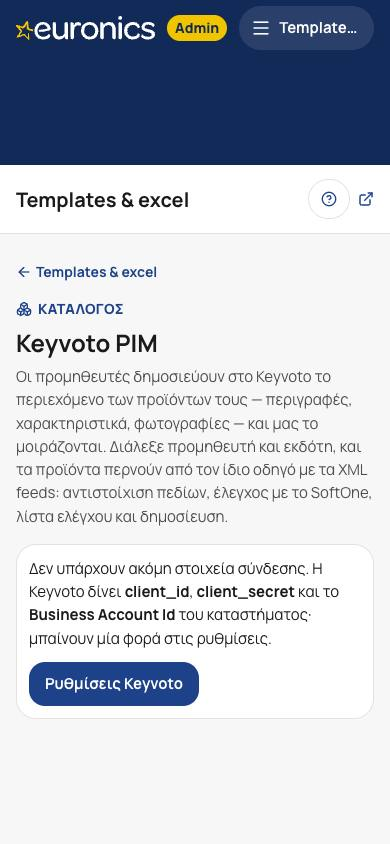
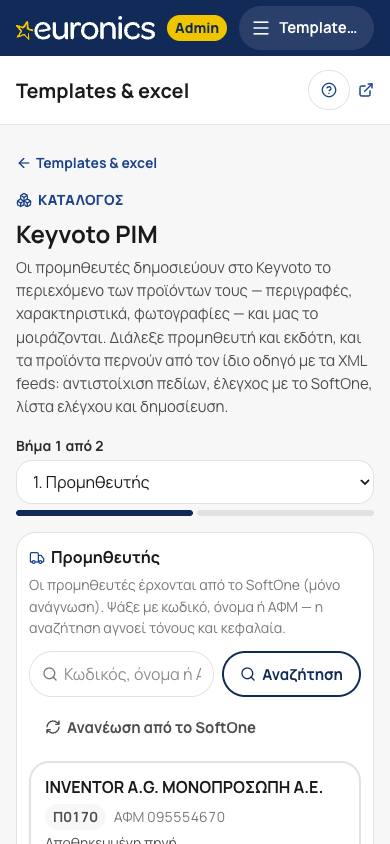
Keyvoto PIM: διαλέγονται εκδότης και κατάλογος, και η πηγή σώζεται
Με πραγματικά κλειδιά τα μενού γέμιζαν αλλά δεν διαλεγόταν τίποτα: ο κωδικός
του εκδότη ήταν πάντα κενός. Το Keyvoto στέλνει `id` (BusinessAccount-…,
CatalogueV2-…), όχι `businessAccountId`/`catalogueId` όπως είχαμε υποθέσει από
το swagger. Επαληθεύτηκε ζωντανά.

- publisherOptions/catalogueOptions στο core, με tests: κλειδί το `id`, ό,τι
  δεν έχει id ή είναι διαγραμμένο δεν γίνεται επιλογή που δεν σώζεται.
- Ο οδηγός ζητούσε τους προμηθευτές χωρίς τη μορφή της πηγής, οπότε μετά την
  αποθήκευση η κάρτα ξαναδιάβαζε τα XML feeds και έδειχνε «χωρίς πηγή».
- Ο κατάλογος δείχνει πόσα προϊόντα έχει· το μήνυμα αποθήκευσης λέει «πηγή».

Δοκιμασμένο άκρη σε άκρη στον INVENTOR: 124 προϊόντα, 273 στήλες, 1 μάρκα,
13 κατηγορίες. 905/905 tests.

Changed region(s): [[0.0, 0.0616, 1.0, 0.8934], [0.1231, 0.9242, 0.8308, 1.0]]

diff --git a/components/admin/catalog/xml/XmlImportWizard.tsx b/components/admin/catalog/xml/XmlImportWizard.tsx
@@ -93,13 +93,13 @@ export function XmlImportWizard({ suppliers, brands, categories, units, marks, w
 
   const search = async (e: React.FormEvent) => {
     e.preventDefault();
-    const r = await run("search", () => findSuppliers(q.trim()).then((x) => x));
+    const r = await run("search", () => findSuppliers(q.trim(), source).then((x) => x));
     if (r) setList(r);
   };
 
   /** Ξαναδιαβάζει τη λίστα και κρατά επιλεγμένο τον ίδιο προμηθευτή — αλλιώς η κάρτα θα έδειχνε παλιά κατάσταση. */
   const refresh = async (supplierId: string) => {
-    const fresh = await findSuppliers(q.trim());
+    const fresh = await findSuppliers(q.trim(), source);
     setList(fresh);
     const same = fresh.find((x) => x.id === supplierId);
     if (same) setPicked(same);
@@ -111,9 +111,10 @@ export function XmlImportWizard({ suppliers, brands, categories, units, marks, w
     const r = await run("url", () => saveUrl(s.id, url.trim()));
     if (!r) return;
     await refresh(s.id);
+    const what = kv ? "Η πηγή" : "Η διεύθυνση";
     setNote(r.cleared
-      ? `Η διεύθυνση αποθηκεύτηκε. Επειδή άλλαξε, τα ${r.cleared.toLocaleString("el-GR")} φορτωμένα προϊόντα της παλιάς διεύθυνσης καθαρίστηκαν.`
-      : "Η διεύθυνση αποθηκεύτηκε στον προμηθευτή. Μπορείς να ρυθμίσεις την αντιστοίχιση όποτε θέλεις.");
+      ? `${what} αποθηκεύτηκε. Επειδή άλλαξε, τα ${r.cleared.toLocaleString("el-GR")} φορτωμένα προϊόντα της προηγούμενης καθαρίστηκαν.`
+      : `${what} αποθηκεύτηκε στον προμηθευτή. Μπορείς να ρυθμίσεις την αντιστοίχιση όποτε θέλεις.`);
   };
 
   /**
@@ -315,7 +316,7 @@ export function XmlImportWizard({ suppliers, brands, categories, units, marks, w
             </label>
             <button type="submit" className={secondary} disabled={working}>{busy === "search" ? <Loader2 className="size-4 animate-spin" aria-hidden /> : <Search className="size-4" aria-hidden />} Αναζήτηση</button>
             <button type="button" className={quiet} disabled={working}
-              onClick={() => run("sync", () => refreshSuppliers()).then((r) => { if (r) { setNote(`Από το SoftOne: ${r.added} νέοι, ${r.updated} ενημερώθηκαν.`); void findSuppliers(q.trim()).then(setList); } })}>
+              onClick={() => run("sync", () => refreshSuppliers()).then((r) => { if (r) { setNote(`Από το SoftOne: ${r.added} νέοι, ${r.updated} ενημερώθηκαν.`); void findSuppliers(q.trim(), source).then(setList); } })}>
               {busy === "sync" ? <Loader2 className="size-4 animate-spin" aria-hidden /> : <RefreshCw className="size-4" aria-hidden />} Ανανέωση από το SoftOne
             </button>
           </form>

diff --git a/lib/keyvoto/core.test.ts b/lib/keyvoto/core.test.ts
@@ -1,6 +1,6 @@
 import { test } from "node:test";
 import assert from "node:assert/strict";
-import { apiUrl, documentFields, flattenDocument, sharedContentQuery, tokenExpiry, tokenForm } from "./core";
+import { apiUrl, catalogueOptions, documentFields, publisherOptions, flattenDocument, sharedContentQuery, tokenExpiry, tokenForm } from "./core";
 
 test("tokenForm: το σώμα του OAuth client credentials", () => {
   const body = tokenForm({ grantType: "client_credentials", clientId: "company-1", clientSecret: "s3cr3t", scope: "keyvoto-core-services" });
@@ -59,4 +59,28 @@ test("documentFields: οι δείκτες των πινάκων ενώνοντα
 test("apiUrl: ενώνει χωρίς διπλές καθέτους", () => {
   assert.equal(apiUrl("https://core-api.keyvoto.com/", "/v1.1-alpha/x/sharedContent"), "https://core-api.keyvoto.com/v1.1-alpha/x/sharedContent");
   assert.equal(apiUrl("https://core-api.keyvoto.com", "v1.1-alpha/x"), "https://core-api.keyvoto.com/v1.1-alpha/x");
+});
+
+test("publisherOptions: ο κωδικός του εκδότη είναι το «id» — όχι κενός", () => {
+  // Πραγματική απάντηση του Keyvoto (/sharedContent/publishers)
+  const out = publisherOptions([{ id: "BusinessAccount-4b69f48f", title: "Inventor", image: "x.webp", email: "a@b.gr" }]);
+  assert.deepEqual(out, [{ id: "BusinessAccount-4b69f48f", title: "Inventor" }]);
+});
+
+test("publisherOptions: εκδότης χωρίς id παραλείπεται — δεν γίνεται επιλογή που δεν σώζεται", () => {
+  assert.deepEqual(publisherOptions([{ title: "Χωρίς κωδικό" }, { id: "  ", title: "Κενό" }]), []);
+});
+
+test("publisherOptions: χωρίς τίτλο δείχνει τον κωδικό", () => {
+  assert.deepEqual(publisherOptions([{ id: "BA-1" }]), [{ id: "BA-1", title: "BA-1" }]);
+});
+
+test("catalogueOptions: κωδικός, όνομα και ο εκδότης του", () => {
+  const out = catalogueOptions([{ id: "CatalogueV2-9bc8", name: "Catalogue Inventor x Euronics", publisher: "BusinessAccount-4b69f48f", products: 124 }]);
+  assert.deepEqual(out, [{ id: "CatalogueV2-9bc8", name: "Catalogue Inventor x Euronics", publisher: "BusinessAccount-4b69f48f", products: 124 }]);
+});
+
+test("catalogueOptions: διαγραμμένος κατάλογος ή χωρίς id δεν εμφανίζεται", () => {
+  const out = catalogueOptions([{ id: "C-1", name: "Παλιός", publisher: "BA-1", isDeleted: true }, { name: "Χωρίς κωδικό", publisher: "BA-1" }]);
+  assert.deepEqual(out, []);
 });

diff --git a/lib/keyvoto/client.ts b/lib/keyvoto/client.ts
@@ -1,6 +1,6 @@
 import "server-only";
 import { getSetting } from "@/lib/settings/store";
-import { apiUrl, sharedContentQuery, tokenExpiry, tokenForm, type SharedContentQuery } from "@/lib/keyvoto/core";
+import { apiUrl, publisherOptions, sharedContentQuery, tokenExpiry, tokenForm, type KeyvotoCatalogue, type KeyvotoPublisher, type SharedContentQuery } from "@/lib/keyvoto/core";
 
 /**
  * **Keyvoto PIM — η σύνδεση.** Μόνο αναγνώσεις: ζητάμε token (OAuth 2.0 client credentials) και διαβάζουμε το
@@ -140,10 +140,10 @@ export interface Publication {
 const account = (c: KeyvotoConfig) => encodeURIComponent(c.businessAccountId);
 
 export const publishers = (c: KeyvotoConfig, pageSize = 50) =>
-  kvFetch<Paged<{ businessAccountId?: string; title?: string }>>(c, c.apiBase, `/v1.1-alpha/${account(c)}/sharedContent/publishers`, `page=1&pageSize=${pageSize}`);
+  kvFetch<Paged<KeyvotoPublisher>>(c, c.apiBase, `/v1.1-alpha/${account(c)}/sharedContent/publishers`, `page=1&pageSize=${pageSize}`);
 
 export const catalogues = (c: KeyvotoConfig, pageSize = 50) =>
-  kvFetch<Paged<{ catalogueId?: string; name?: string; publisher?: string; version?: number }>>(c, c.apiBase, `/v1.1-alpha/${account(c)}/sharedContent/catalogues`, `page=1&pageSize=${pageSize}`);
+  kvFetch<Paged<KeyvotoCatalogue>>(c, c.apiBase, `/v1.1-alpha/${account(c)}/sharedContent/catalogues`, `page=1&pageSize=${pageSize}`);
 
 export const sharedContent = (c: KeyvotoConfig, q: SharedContentQuery = {}) =>
   kvFetch<Paged<Publication>>(c, c.apiBase, `/v1.1-alpha/${account(c)}/sharedContent`, sharedContentQuery({ pageSize: c.pageSize, languages: c.languages ? c.languages.split(",") : undefined, ...q }));
@@ -165,7 +165,7 @@ export async function testKeyvoto(input: Partial<KeyvotoConfig>): Promise<Keyvot
   try {
     await getToken(c, true);
     const p = await publishers(c, 20);
-    const names = (p.results ?? []).map((x) => x.title || x.businessAccountId || "—");
+    const names = publisherOptions(p.results).map((x) => x.title);
     return {
       ok: true, ms: Date.now() - t0, publishers: names, expiresAt: tokenHeldUntil(c)?.toISOString(),
       message: names.length ? `Σύνδεση OK — ${p.totalResults ?? names.length} εκδότες μοιράζονται περιεχόμενο μαζί μας.` : "Σύνδεση OK — ο λογαριασμός δεν έχει ακόμη εκδότες με κοινό περιεχόμενο.",

diff --git a/lib/keyvoto/core.ts b/lib/keyvoto/core.ts
@@ -119,3 +119,27 @@ export function documentFields(docs: Json[]): DocField[] {
 
 /** Ένωση βάσης και διαδρομής χωρίς διπλές καθέτους. */
 export const apiUrl = (base: string, path: string) => `${base.replace(/\/+$/, "")}/${path.replace(/^\/+/, "")}`;
+
+/**
+ * Οι εκδότες και οι κατάλογοί τους, όπως τους γυρίζει το Keyvoto, σε επιλογές για τα μενού του οδηγού.
+ *
+ * Το κλειδί και στα δύο είναι το **`id`** (π.χ. `BusinessAccount-4b69…`, `CatalogueV2-9bc8…`) — επαληθευμένο με
+ * πραγματική απάντηση. Ό,τι δεν έχει `id` το πετάμε: μια επιλογή με κενή τιμή δείχνει να «μη διαλέγεται» και η πηγή
+ * δεν σώζεται ποτέ.
+ */
+/** Το Keyvoto στέλνει και άλλα πεδία (image, email, version, publishedAt…) — κρατάμε μόνο όσα χρησιμοποιούμε. */
+export interface KeyvotoPublisher { id?: string; title?: string; [k: string]: unknown }
+export interface KeyvotoCatalogue { id?: string; name?: string; publisher?: string; products?: number; isDeleted?: boolean; [k: string]: unknown }
+
+export const publisherOptions = (rows: KeyvotoPublisher[] | null | undefined): { id: string; title: string }[] =>
+  (rows ?? [])
+    .map((x) => ({ id: String(x.id ?? "").trim(), title: String(x.title ?? "").trim() }))
+    .filter((x) => x.id)
+    .map((x) => ({ id: x.id, title: x.title || x.id }));
+
+export const catalogueOptions = (rows: KeyvotoCatalogue[] | null | undefined): { id: string; name: string; publisher: string; products: number }[] =>
+  (rows ?? [])
+    .filter((x) => !x.isDeleted)
+    .map((x) => ({ id: String(x.id ?? "").trim(), name: String(x.name ?? "").trim(), publisher: String(x.publisher ?? "").trim(), products: Number(x.products ?? 0) || 0 }))
+    .filter((x) => x.id)
+    .map((x) => ({ ...x, name: x.name || x.id }));

diff --git a/components/admin/catalog/keyvoto/KeyvotoSource.tsx b/components/admin/catalog/keyvoto/KeyvotoSource.tsx
@@ -15,7 +15,7 @@ export function KeyvotoSource({ value, onChange, disabled, label = "Πηγή Key
   disabled?: boolean;
   label?: string;
 }) {
-  const [lists, setLists] = useState<{ publishers: { id: string; title: string }[]; catalogues: { id: string; name: string; publisher: string }[] } | null>(null);
+  const [lists, setLists] = useState<{ publishers: { id: string; title: string }[]; catalogues: { id: string; name: string; publisher: string; products: number }[] } | null>(null);
   const [err, setErr] = useState<string | null>(null);
   /** ξεκινά φορτώνοντας: οι εκδότες έρχονται με την πρώτη απόδοση */
   const [loading, setLoading] = useState(true);
@@ -52,7 +52,7 @@ export function KeyvotoSource({ value, onChange, disabled, label = "Πηγή Key
           <span className="font-bold text-eu-ink-2 text-[length:var(--fs-13)]">Κατάλογος <span className="font-normal text-eu-muted">· προαιρετικά</span></span>
           <select value={cur.catalogue} disabled={disabled || !cur.publisher || !cats.length} onChange={(e) => onChange(keyvotoUrl(cur.publisher, e.target.value))} className={sel}>
             <option value="">Όλοι οι κατάλογοί του</option>
-            {cats.map((c) => <option key={c.id} value={c.id}>{c.name}</option>)}
+            {cats.map((c) => <option key={c.id} value={c.id}>{c.products ? `${c.name} · ${c.products.toLocaleString("el-GR")} προϊόντα` : c.name}</option>)}
           </select>
         </label>
       </div>

diff --git a/app/admin/(shell)/catalog/templates/keyvoto/actions.ts b/app/admin/(shell)/catalog/templates/keyvoto/actions.ts
@@ -1,7 +1,7 @@
 "use server";
 import { requirePermission } from "@/lib/rbac/guard";
 import { audit } from "@/lib/rbac/audit";
-import { documentFields, type DocField } from "@/lib/keyvoto/core";
+import { catalogueOptions, documentFields, publisherOptions, type DocField } from "@/lib/keyvoto/core";
 import { catalogues, getKeyvotoConfig, publishers, sharedContent, testKeyvoto, tokenHeldUntil, type Publication } from "@/lib/keyvoto/client";
 
 /**
@@ -14,7 +14,7 @@ export interface KvConnection {
   message: string;
   ms: number;
   publishers: { id: string; title: string }[];
-  catalogues: { id: string; name: string; publisher: string }[];
+  catalogues: { id: string; name: string; publisher: string; products: number }[];
   expiresAt: string | null;
 }
 
@@ -66,8 +66,8 @@ export async function connect(): Promise<KvConnection> {
       ok: true,
       message: `Σύνδεση OK — ${p.totalResults ?? (p.results ?? []).length} εκδότες, ${cat.totalResults ?? (cat.results ?? []).length} κατάλογοι.`,
       ms: Date.now() - t0,
-      publishers: (p.results ?? []).map((x) => ({ id: String(x.businessAccountId ?? ""), title: String(x.title ?? x.businessAccountId ?? "—") })),
-      catalogues: (cat.results ?? []).map((x) => ({ id: String(x.catalogueId ?? ""), name: String(x.name ?? "—"), publisher: String(x.publisher ?? "") })),
+      publishers: publisherOptions(p.results),
+      catalogues: catalogueOptions(cat.results),
       expiresAt: tokenHeldUntil(c)?.toISOString() ?? null,
     };
   } catch (e) {

diff --git a/lib/help/content/index.ts b/lib/help/content/index.ts
@@ -788,6 +788,7 @@ export const HELP_PAGES: HelpPage[] = [
       "Ένας προμηθευτής μπορεί να έχει ΚΑΙ XML feed ΚΑΙ πηγή Keyvoto — είναι χωριστά, με δική του αντιστοίχιση το καθένα.",
       "Οι φωτογραφίες δεν έρχονται ως διευθύνσεις αλλά ως «path»· το αρχείο κατεβαίνει από το Gallery API με αυτό το path.",
       "Το φίλτρο ημερομηνίας του Keyvoto δείχνει τις πραγματικές αλλαγές περιεχομένου, όχι τις αναδημοσιεύσεις — γι' αυτό η τακτική ενημέρωση θα κοστίζει ελάχιστα.",
+      "Δίπλα σε κάθε κατάλογο φαίνεται πόσα προϊόντα έχει. Αν αφήσεις «Όλοι οι κατάλογοί του», έρχεται ό,τι μοιράζεται ο εκδότης μαζί μας — χρήσιμο όταν προσθέτει καινούργιο κατάλογο χωρίς να μας το πει.",
     ],
     related: [{ label: "Ρυθμίσεις Keyvoto", href: "/admin/settings/keyvoto" }, { label: "XML προμηθευτές", href: "/admin/catalog/templates/xml" }],
     keywords: ["keyvoto", "pim", "περιεχόμενο", "προμηθευτές", "sharedContent", "oauth", "client credentials"],
